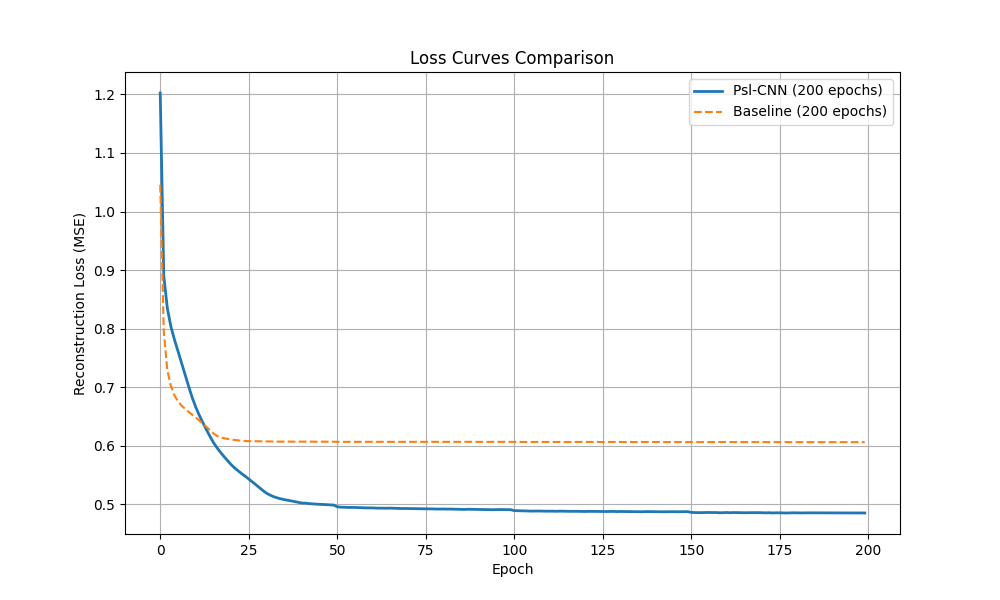
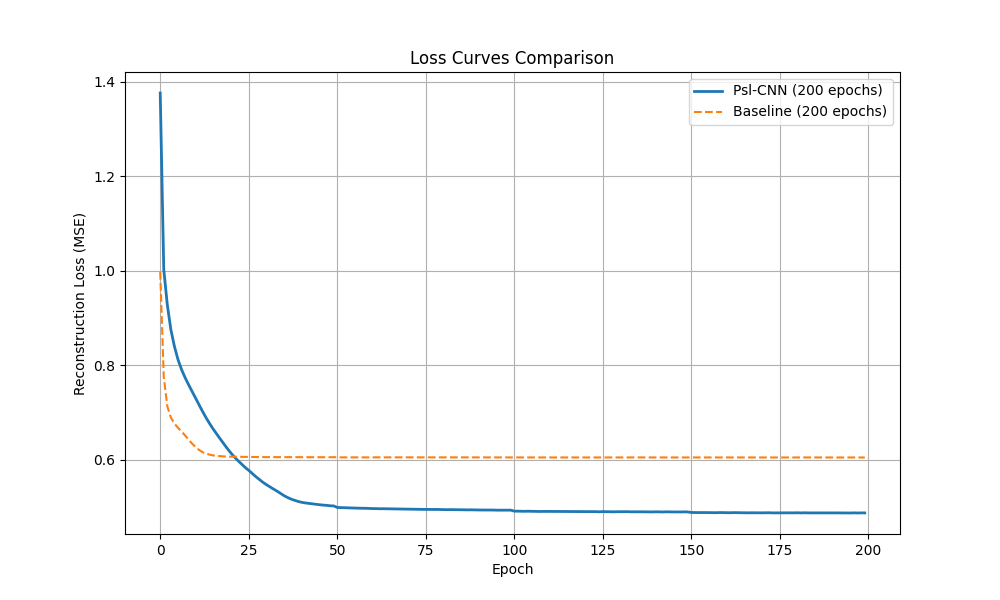
generate_spectrum_dataset.py
Each test sample is now tracked before and after normalization
Added test_data_raw.pt save — same structure as test_data.pt (same labels, SNRs, modulations) but with raw unnormalized IQ values so the energy detector has access to true signal power

energy_detector.py — new file

Loads train_noise_raw.pt (unnormalized training noise) to estimate the H0 energy distribution
Loads test_data_raw.pt (unnormalized test data) for test scores
Computes energy score per sample as mean(I² + Q²) across both channels and all 1024 time steps
Fits a Gaussian to the H0 training energy scores to get mu_e and sigma_e
Sets the Neyman-Pearson threshold at the upper tail: γ = μ + Φ⁻¹(1 − Pfa) × σ at Pfa = 0.01
Computes overall AUC and Youden index
Computes Pd at each of the 11 discrete SNR points and prints a table
Computes TPR by SNR range and by modulation type
Saves pd_vs_snr_ed.npy to spectrum_data/ for the combined Pd vs SNR plot
Saves ROC curve and energy score distribution plot to anomalies_ED/

diff --git a/energy_detector.py b/energy_detector.py
@@ -1,0 +1,159 @@
+'''
+Energy Detector (ED) — Benchmark for Spectrum Sensing
+Implements the classical energy detection approach for comparison against
+PsiNN and CAE anomaly detectors.
+
+Detection rule: E = mean(I² + Q²) per sample.
+Threshold set via Neyman-Pearson criterion on unnormalized training noise (H0).
+Higher energy → signal present (H1).
+'''
+
+import torch
+import numpy as np
+from sklearn.metrics import roc_curve, auc
+import matplotlib.pyplot as plt
+from pathlib import Path
+from scipy.stats import norm
+
+# ====================== LOAD DATA ======================
+# Unnormalized training noise — used to estimate H0 energy distribution
+train_noise_raw = torch.load("spectrum_data/train_noise_raw.pt", weights_only=False)  # (N, 2, 1024)
+
+# Unnormalized test data — per-sample normalization would destroy power info
+test_dict = torch.load("spectrum_data/test_data_raw.pt", weights_only=False)
+test_data_raw = test_dict["data"]          # (N, 2, 1024)
+test_labels   = test_dict["labels"].numpy()
+test_snr      = test_dict["snrs"].numpy()
+test_mods     = np.array(test_dict["signals"])
+
+# ====================== ENERGY SCORE ======================
+def energy_score(data: torch.Tensor) -> np.ndarray:
+    """Mean squared power per sample across both I and Q channels: mean(I² + Q²)."""
+    return data.pow(2).mean(dim=[1, 2]).numpy()
+
+# ====================== H0 DISTRIBUTION FROM TRAINING NOISE ======================
+print("Computing energy scores on training noise (H0)...")
+train_energy = energy_score(train_noise_raw)
+
+mu_e    = np.mean(train_energy)
+sigma_e = np.std(train_energy)
+print(f"H0 energy → mean = {mu_e:.6f},  std = {sigma_e:.6f}")
+
+# ====================== NEYMAN-PEARSON THRESHOLD ======================
+# Upper tail: E > γ → signal detected
+# P(E > γ | H0) = 1 - Φ((γ - μ) / σ) = Pfa  →  γ = μ + Φ⁻¹(1 - Pfa) · σ
+target_pfa = 0.01
+gamma = mu_e + norm.ppf(1 - target_pfa) * sigma_e
+print(f"Target Pfa = {target_pfa} → γ = {gamma:.6f}")
+
+# ====================== TEST SET ENERGY SCORES ======================
+print("\nComputing energy scores on test set...")
+test_energy = energy_score(test_data_raw)
+
+# ====================== OVERALL ROC / AUC ======================
+fpr, tpr, _ = roc_curve(test_labels, test_energy)
+auc_ed = auc(fpr, tpr)
+
+# Youden index
+youden_idx  = np.argmax(tpr - fpr)
+optimal_pfa = fpr[youden_idx]
+optimal_tpr = tpr[youden_idx]
+
+print(f"\n=== ENERGY DETECTOR RESULTS ===")
+print(f"AUC       : {auc_ed:.4f}")
+print(f"γ (Pfa={target_pfa}): {gamma:.6f}")
+print(f"Youden optimal Pfa = {optimal_pfa:.4f}  TPR = {optimal_tpr:.4f}")
+
+# ====================== Pd vs SNR ======================
+snr_points = [-10, -8, -6, -4, -2, 0, 2, 4, 6, 8, 10]
+pd_ed = []
+
+print(f"\n{'='*55}")
+print(f"Pd vs SNR  (Pfa = {target_pfa})")
+print(f"{'SNR (dB)':>10}  {'ED Pd':>10}  {'N signal':>10}")
+print(f"{'─'*55}")
+
+for snr_db in snr_points:
+    snr_mask = (test_snr == snr_db)
+    sig_mask = snr_mask & (test_labels == 1)
+
+    if sig_mask.sum() == 0:
+        pd_ed.append(np.nan)
+        print(f"{snr_db:>10d}  {'N/A':>10}")
+        continue
+
+    pd = float(np.mean(test_energy[sig_mask] > gamma))
+    pd_ed.append(pd)
+    print(f"{snr_db:>10d}  {pd:>10.4f}  {int(sig_mask.sum()):>10d}")
+
+print(f"{'─'*55}")
+
+pd_ed = np.array(pd_ed)
+
+# Save for combined Pd vs SNR plot
+np.save("spectrum_data/pd_vs_snr_ed.npy",   pd_ed)
+np.save("spectrum_data/snr_points.npy",     np.array(snr_points, dtype=float))
+
+# ====================== TPR BY SNR RANGE ======================
+print(f"\n{'='*55}")
+print(f"TPR BY SNR RANGE  (Pfa = {target_pfa})")
+print(f"{'SNR Range':<18}  {'AUC':>6}  {'TPR@γ':>8}")
+print(f"{'─'*55}")
+
+for snr_low, snr_high in [(-10, -5), (-5, 0), (0, 5), (5, 10)]:
+    mask = (test_snr >= snr_low) & (test_snr < snr_high)
+    if mask.sum() == 0 or len(np.unique(test_labels[mask])) < 2:
+        continue
+    fpr_s, tpr_s, _ = roc_curve(test_labels[mask], test_energy[mask])
+    auc_s    = auc(fpr_s, tpr_s)
+    tpr_at_g = tpr_s[np.searchsorted(fpr_s, target_pfa, side='right') - 1]
+    print(f"[{snr_low:+d}, {snr_high:+d}) dB        {auc_s:>6.4f}  {tpr_at_g:>8.4f}")
+
+# ====================== TPR BY MODULATION ======================
+print(f"\n{'='*55}")
+print(f"TPR BY MODULATION  (Pfa = {target_pfa})")
+print(f"{'Modulation':<16}  {'AUC':>6}  {'TPR@γ':>8}")
+print(f"{'─'*55}")
+
+for mod in ['qpsk', 'bpsk', '16qam', '32qam']:
+    mask = (test_mods == mod) | (test_labels == 0)
+    if mask.sum() == 0 or len(np.unique(test_labels[mask])) < 2:
+        continue
+    fpr_s, tpr_s, _ = roc_curve(test_labels[mask], test_energy[mask])
+    auc_s    = auc(fpr_s, tpr_s)
+    tpr_at_g = tpr_s[np.searchsorted(fpr_s, target_pfa, side='right') - 1]
+    print(f"{mod:<16}  {auc_s:>6.4f}  {tpr_at_g:>8.4f}")
+
+# ====================== OUTPUT FOLDER ======================
+out_dir = Path("anomalies_ED")
+out_dir.mkdir(exist_ok=True)
+
+# ROC plot
+plt.figure(figsize=(8, 6))
+plt.plot(fpr, tpr, label=f'Energy Detector (AUC = {auc_ed:.3f})')
+plt.scatter(optimal_pfa, optimal_tpr, marker='*', s=200, color='red', zorder=5,
+            label=f'Youden (Pfa={optimal_pfa:.3f})')
+plt.plot([0, 1], [0, 1], 'k--')
+plt.xlabel('False Positive Rate')
+plt.ylabel('True Positive Rate')
+plt.title('ROC Curve — Energy Detector')
+plt.legend()
+plt.grid(True)
+plt.savefig(out_dir / "roc_ed.png", dpi=300, bbox_inches='tight')
+plt.close()
+
+# Energy score distribution (H0 vs H1)
+plt.figure(figsize=(8, 6))
+plt.hist(test_energy[test_labels == 0], bins=50, alpha=0.6, color='steelblue',  label='Noise (H0)')
+plt.hist(test_energy[test_labels == 1], bins=50, alpha=0.6, color='darkorange', label='Signal (H1)')
+plt.axvline(gamma, color='red', linestyle='--', label=f'γ (Pfa={target_pfa})')
+plt.xlabel('Energy Score  mean(I² + Q²)')
+plt.ylabel('Frequency')
+plt.title('Energy Score Distribution — ED')
+plt.legend()
+plt.grid(True)
+plt.savefig(out_dir / "energy_distribution.png", dpi=300, bbox_inches='tight')
+plt.close()
+
+print(f"\n✅ Energy Detector complete! Results saved in {out_dir}/")
+print(f"   pd_vs_snr_ed.npy saved to spectrum_data/ for combined Pd vs SNR plot")

diff --git a/generate_spectrum_dataset.py b/generate_spectrum_dataset.py
@@ -68,58 +68,67 @@ def generate_iq_dataset(
           1, 1, 1, 1, 1, 1,  3, 3, 3, 3,        5, 5, 5, 5],
         dtype=torch.float32)
 
-    test_data, test_labels, test_snrs, test_mods = [], [], [], []
+    test_data, test_data_raw, test_labels, test_snrs, test_mods = [], [], [], [], []
 
     for snr_db in snr_points:
         # Exactly samples_per_mod_per_snr signal samples per modulation at this SNR
         for mod in modulations:
             for _ in range(samples_per_mod_per_snr):
-                sig    = _make_signal(mod, length, _32qam_re, _32qam_im)
-                sample = add_awgn(sig, snr_db)
-                sample = (sample - sample.mean()) / sample.std()
+                sig        = _make_signal(mod, length, _32qam_re, _32qam_im)
+                sample_raw = add_awgn(sig, snr_db)                          # unnormalized
+                sample     = (sample_raw - sample_raw.mean()) / sample_raw.std()  # normalized
                 test_data.append(sample)
+                test_data_raw.append(sample_raw)
                 test_labels.append(1)
                 test_snrs.append(float(snr_db))
                 test_mods.append(mod)
 
         # noise_per_snr noise (H0) samples at this SNR point
         for _ in range(noise_per_snr):
-            sample = torch.randn(2, length, dtype=torch.float32)
-            sample = (sample - sample.mean()) / sample.std()
+            sample_raw = torch.randn(2, length, dtype=torch.float32)        # unnormalized
+            sample     = (sample_raw - sample_raw.mean()) / sample_raw.std()  # normalized
             test_data.append(sample)
+            test_data_raw.append(sample_raw)
             test_labels.append(0)
             test_snrs.append(float(snr_db))
             test_mods.append('none')
 
-    test_data   = torch.stack(test_data)
-    test_labels = torch.tensor(test_labels, dtype=torch.long)
-    test_snrs   = torch.tensor(test_snrs,   dtype=torch.float32)
+    test_data     = torch.stack(test_data)
+    test_data_raw = torch.stack(test_data_raw)
+    test_labels   = torch.tensor(test_labels, dtype=torch.long)
+    test_snrs     = torch.tensor(test_snrs,   dtype=torch.float32)
 
-    return train_noise, train_noise_raw, test_data, test_labels, test_snrs, test_mods
+    return train_noise, train_noise_raw, test_data, test_data_raw, test_labels, test_snrs, test_mods
 
 
 # ── Entry point ────────────────────────────────────────────────────────────────
 if __name__ == "__main__":
     print("Generating spectrum-sensing dataset (Option 1 - Pure Python)...")
 
-    train_noise, train_noise_raw, test_data, test_labels, test_snrs, test_mods = \
+    train_noise, train_noise_raw, test_data, test_data_raw, test_labels, test_snrs, test_mods = \
         generate_iq_dataset()
 
     Path("spectrum_data").mkdir(exist_ok=True)
 
-    torch.save(train_noise_raw, "spectrum_data/train_noise_raw.pt")   # unnormalized — Energy Detector
-    torch.save(train_noise,     "spectrum_data/train_noise.pt")        # normalized  — models
+    torch.save(train_noise_raw, "spectrum_data/train_noise_raw.pt")   # unnormalized — Energy Detector H0
+    torch.save(train_noise,     "spectrum_data/train_noise.pt")        # normalized   — PsiNN / CAE
     torch.save({
         "data":    test_data,
         "labels":  test_labels,
         "snrs":    test_snrs,
         "signals": test_mods,
     }, "spectrum_data/test_data.pt")
+    torch.save({
+        "data":    test_data_raw,
+        "labels":  test_labels,
+        "snrs":    test_snrs,
+        "signals": test_mods,
+    }, "spectrum_data/test_data_raw.pt")                               # unnormalized — Energy Detector
 
     n_signal = test_labels.sum().item()
     n_noise  = (test_labels == 0).sum().item()
     print("Dataset generation complete!")
     print(f"   Training samples : {train_noise.shape}  (pure noise only)")
     print(f"   Test samples     : {test_data.shape}  ({n_signal} signal, {n_noise} noise)")
-    print(f"   Per (mod, SNR)   : {200} signal samples at each of 11 SNR x 4 modulation cells")
+    print(f"   Per (mod, SNR)   : 200 signal samples at each of 11 SNR x 4 modulation cells")
     print(f"   Files saved in   : ./spectrum_data/")